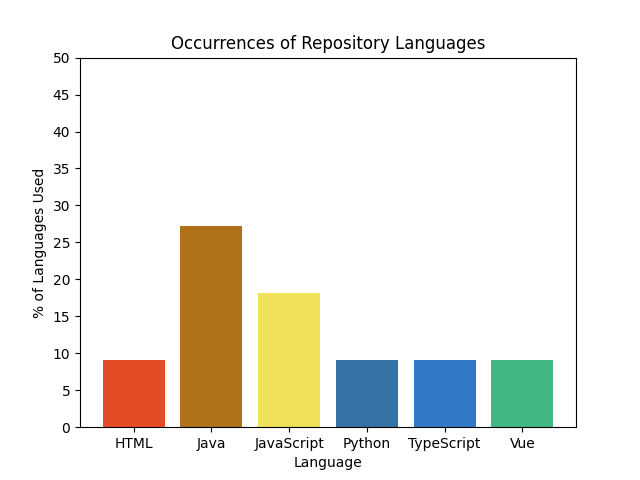
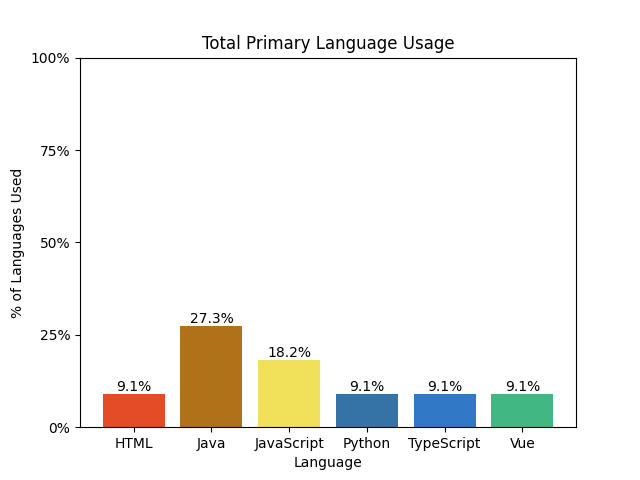
Updated Home Page and finished Graphs

diff --git a/templates/base.html b/templates/base.html
@@ -1,13 +1,143 @@
-<!doctype html>
-<title>{% block title %}{% endblock %} - Flaskr</title>
-<link rel="stylesheet" href="{{ url_for('static', path='style.css') }}">
-<nav>
-    <h1>FastAPI</h1>
+<!DOCTYPE html>
+<html lang="en">
+<head>
+    <meta charset="UTF-8">
+    <meta name="viewport" content="width=device-width, initial-scale=1.0">
+    <title>FastAPI Website</title>
+    <link rel="stylesheet" href="{{ url_for('static', path='style.css') }}">
+    <style>
+        /* Additional inline styles can be added here */
+        body {
+            font-family: Arial, sans-serif;
+            background-color: #f8f9fa;
+            margin: 0;
+            padding: 0;
+            box-sizing: border-box;
+        }
 
-</nav>
-<section class="content">
-    <header>
-        {% block header %}{% endblock %}
-    </header>
-    {% block content %}{% endblock %}
-</section>
+        header {
+            background-color: #007bff;
+            color: white;
+            padding: 20px;
+            text-align: center;
+        }
+
+        nav {
+            background-color: #343a40;
+            color: white;
+            padding: 10px 20px;
+        }
+
+        nav ul {
+            list-style-type: none;
+            margin: 0;
+            padding: 0;
+        }
+
+        nav ul li {
+            display: inline;
+            margin-right: 10px;
+        }
+
+        nav ul li a {
+            color: white;
+            text-decoration: none;
+        }
+
+        .container {
+            max-width: 1200px;
+            margin: 0 auto;
+            padding: 0 20px 20px 20px;
+        }
+
+        .project-container {
+            max-width: 1200px;
+            margin: 0 auto;
+            text-align: center;
+        }
+
+        .project {
+            margin-bottom: 50px;
+        }
+
+        .project p {
+            text-align: left;
+        }
+
+        footer {
+            background-color: #343a40;
+            color: white;
+            text-align: center;
+            padding: 10px 0;
+        }
+    </style>
+</head>
+<body>
+<header>
+    <h1>Welcome to my Python Website</h1>
+</header>
+<div class="container">
+    <h2>About Us</h2>
+    <p>I'm Kevin, a Lead Developer with 10 years of extensive experience developing and maintaining
+        web applications using modern technologies
+        such as React, Typescript, Node.js, MongoDB, PostgresQL, Docker, and Amazon Web Services. </p>
+    <p>The goal of this project was to learn Python and leverage a few commonly used resources/libraries.</p>
+    <h4>Resources Learned/Used:</h4>
+    <ul>
+        <li><a href="https://www.python.org/" target="_blank" rel="noopener noreferrer">Python</a></li>
+        <li><a href="https://numpy.org/" target="_blank" rel="noopener noreferrer">Numpy</a></li>
+        <li><a href="https://pandas.pydata.org/docs/index.html" target="_blank" rel="noopener noreferrer">Pandas</a>
+        </li>
+        <li><a href="https://fastapi.tiangolo.com/" target="_blank" rel="noopener noreferrer">FastAPI</a></li>
+        <li><a href="https://matplotlib.org/stable/" target="_blank" rel="noopener noreferrer">Matplotlib</a></li>
+    </ul>
+    <h2 style="margin-top: 50px; text-align: center">Python Projects</h2>
+    <div class="project-container">
+        <div class="project">
+            <h3>Graph 1: Total Primary Language Usage</h3>
+            <p>In the Matplotlib Bar graph provided, the total utilization of coding languages throughout GitHub <a
+                    href="https://github.com/kalewis5331"
+                    target="_blank" rel="noopener noreferrer">Repositories</a> is
+                visualized.
+                Each bar represents the total percentage of a specific language, with the height of the bar
+                indicating the relative magnitude of usage.
+                From the graph, we can observe that Java has the highest usage, followed by JavaScript. This
+                visualization enables hiring managers, recruiters, and developers to quickly grasp
+                the comparative usage of different
+                coding languages and identify areas for further analysis or improvement.</p>
+            <p><b>Note:</b> Private Repos from prior work experience would have significantly altered the data, placing
+                TypeScript as the highest language due to the sheer amount of coding done in that language.
+            </p>
+            <p><b>Note: </b>Figure below only shows the Primary Languages per Repository, and does not show
+                secondary/additional languages used.
+            </p>
+            <img src="{{ url_for('static', path='images/new_plot.png') }}" alt="Bar Graph">
+        </div>
+        <div class="project">
+            <h3>Graph 2: Percentage of Languages Used (per Repo)</h3>
+            <p> Matplotlib multi-bar graph based on the languages used for a Repository.</p>
+            <p>In the Matplotlib Multi Bar graph provided, the total utilization of coding languages throughout an
+                individual Repository is
+                visualized.
+                Each bar represents the total percentage of a specific language, with the height of the bar
+                indicating the relative magnitude of usage.
+                From the graph, we can observe that Vue has the highest usage, followed by TypeScript. This
+                visualization enables hiring managers, recruiters, and developers to quickly grasp
+                the comparative usage of different coding languages and identify areas for further analysis or
+                improvement.</p>
+            <p><b>Note: </b>According to the team behind <a
+                    href="https://vuejs.org/guide/introduction.html"
+                    target="_blank" rel="noopener noreferrer">Vue</a>, Vue is a JavaScript framework that builds on top
+                of
+                standard HTML, CSS, and JavaScript. GitHub's API classifies it as a Language.
+            </p>
+            <img src="{{ url_for('static', path='images/bar.png') }}" alt="Multi Bar Graph">
+        </div>
+        <!-- Add more projects as needed -->
+    </div>
+</div>
+<footer>
+    <p>&copy; 2024. Python & FastAPI Projects. Developed by Kalewis5331</p>
+</footer>
+</body>
+</html>

diff --git a/controller/repo_lang_controller.py b/controller/repo_lang_controller.py
@@ -5,6 +5,7 @@ from fastapi.responses import HTMLResponse
 from fastapi.templating import Jinja2Templates
 import pandas as pd
 import matplotlib.pyplot as plt
+from matplotlib import ticker
 import json
 
 router = APIRouter(prefix="/languages", tags=["language", "github"])
@@ -45,11 +46,17 @@ async def create_bar_chart():
         language_column = df_count['language']
         labels = create_color_labels(language_column)
         fig, ax = plt.subplots()
-        ax.bar(df_count['language'], df_count['percentage'], color=labels)
+        bars = ax.bar(df_count['language'], df_count['percentage'], label='ssss', color=labels)
         ax.set_xlabel('Language')
         ax.set_ylabel('% of Languages Used')
-        ax.set_title('Occurrences of Repository Languages')
-        ax.set_yticks(np.arange(0, max(df_count['percentage']) + 25, 5))
+        ax.set_title('Total Primary Language Usage')
+        ax.set_yticks(np.linspace(0, 100, 5))
+        ax.yaxis.set_major_formatter(ticker.PercentFormatter())
+
+        for bar in bars:
+            height = bar.get_height()
+            plt.text(bar.get_x() + bar.get_width() / 2, height, '{:.1f}%'.format(height), ha='center', va='bottom')
+
         # # Show plot
         # ax.show()
         plt.savefig('./static/images/new_plot.png')

diff --git a/controller/total_utilization_controller.py b/controller/total_utilization_controller.py
@@ -1,12 +1,10 @@
 import io
 import httpx
 from fastapi import APIRouter, Request, Response
-from fastapi.templating import Jinja2Templates
 import matplotlib.pyplot as plt
 import json
 
 router = APIRouter(prefix="/repository", tags=["repository", "github"])
-templates = Jinja2Templates(directory="templates")
 
 
 def create_color_labels(languages: [str]):
@@ -27,7 +25,6 @@ async def create_multi_bar_chart(repo_id: int):
   {
     repos {
         id
-        language
         languages_url
     }
   }
@@ -65,6 +62,7 @@ async def create_multi_bar_chart(repo_id: int):
             # Show plot
             # plt.show()
             # plt.savefig('./static/images/bar.png')
+
             # Convert the plot to a PNG image
             buffer = io.BytesIO()
             plt.savefig(buffer, format='png')
@@ -79,6 +77,6 @@ async def create_multi_bar_chart(repo_id: int):
 
 @router.get("/{repo_id}")
 async def languages_chart(request: Request, repo_id: int):
-    b = await create_multi_bar_chart(repo_id)
+    buffer = await create_multi_bar_chart(repo_id)
     # Return the PNG image as a response
-    return Response(content=b.getvalue(), media_type='image/png')
+    return Response(content=buffer.getvalue(), media_type='image/png')

diff --git a/main.py b/main.py
@@ -1,14 +1,16 @@
-from fastapi import FastAPI
+from fastapi import FastAPI, Request
 from fastapi.staticfiles import StaticFiles
+from fastapi.templating import Jinja2Templates
 from controller import repo_lang_controller, total_utilization_controller
 
+templates = Jinja2Templates(directory="templates")
 app = FastAPI()
 app.mount("/static", StaticFiles(directory="static"), name="static")
-
 app.include_router(repo_lang_controller.router)
 app.include_router(total_utilization_controller.router)
 
 
 @app.get("/")
-async def root():
-    return {"message": "Hello World"}
+async def root(request: Request):
+    await repo_lang_controller.create_bar_chart()
+    return templates.TemplateResponse(request=request, name="base.html")
